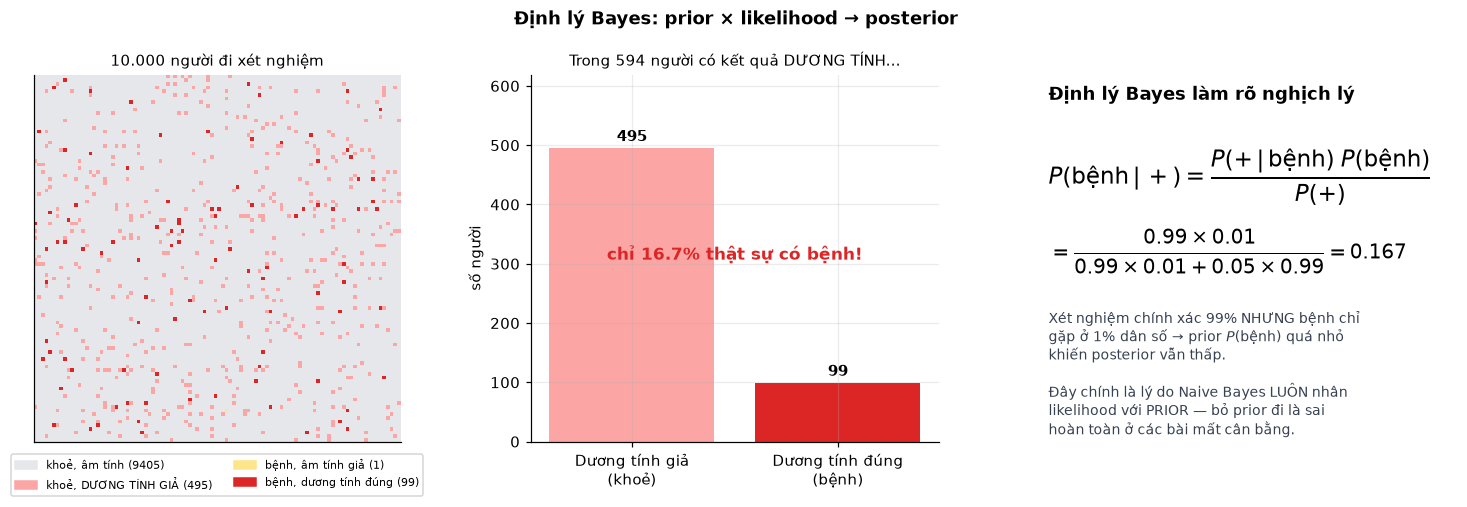
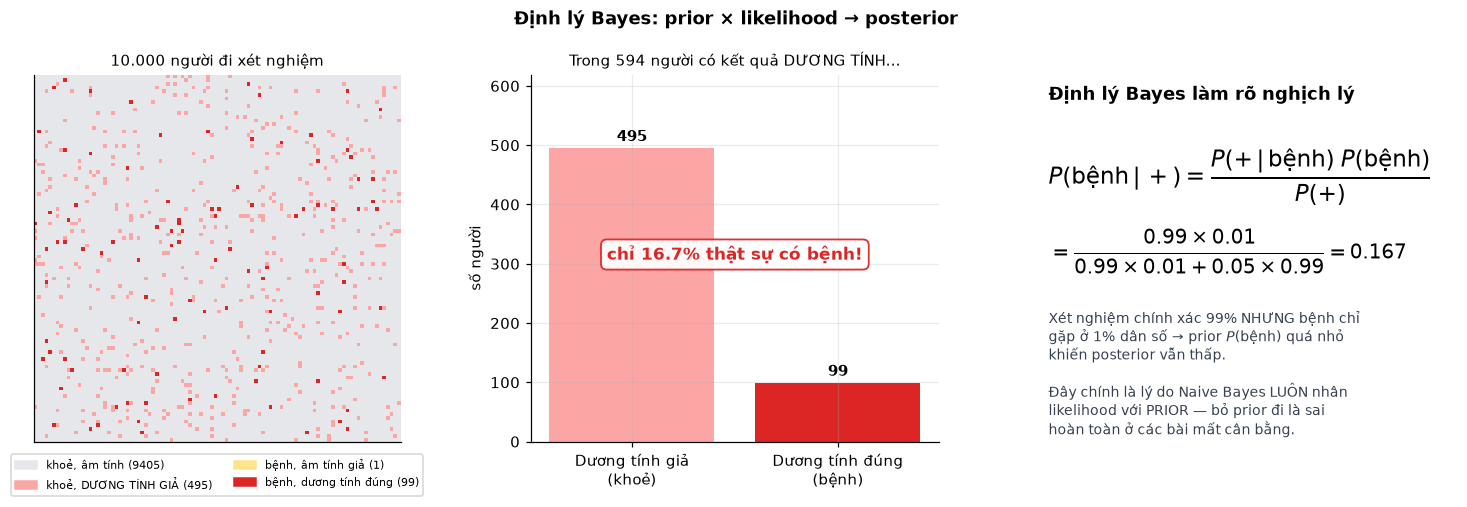
update

Changed region(s): [[0.3988, 0.4438, 0.5828, 0.5325]]

diff --git a/03. Naive_Bayes/images/figures.py b/03. Naive_Bayes/images/figures.py
@@ -64,7 +64,9 @@ def fig_bayes_theorem():
     for i, v in enumerate([fp, tp]):
         ax.text(i, v + 12, str(v), ha="center", fontweight="bold")
     ax.text(.5, fp * .62, f"chỉ {tp/(tp+fp)*100:.1f}% thật sự có bệnh!",
-            ha="center", fontsize=11, color=C2, fontweight="bold")
+            ha="center", fontsize=11, color=C2, fontweight="bold",
+            bbox=dict(boxstyle="round,pad=0.35", facecolor="white", alpha=.94,
+                      edgecolor=C2, linewidth=1.2))
     ax.set_ylim(0, fp * 1.25)
 
     # (c) công thức
